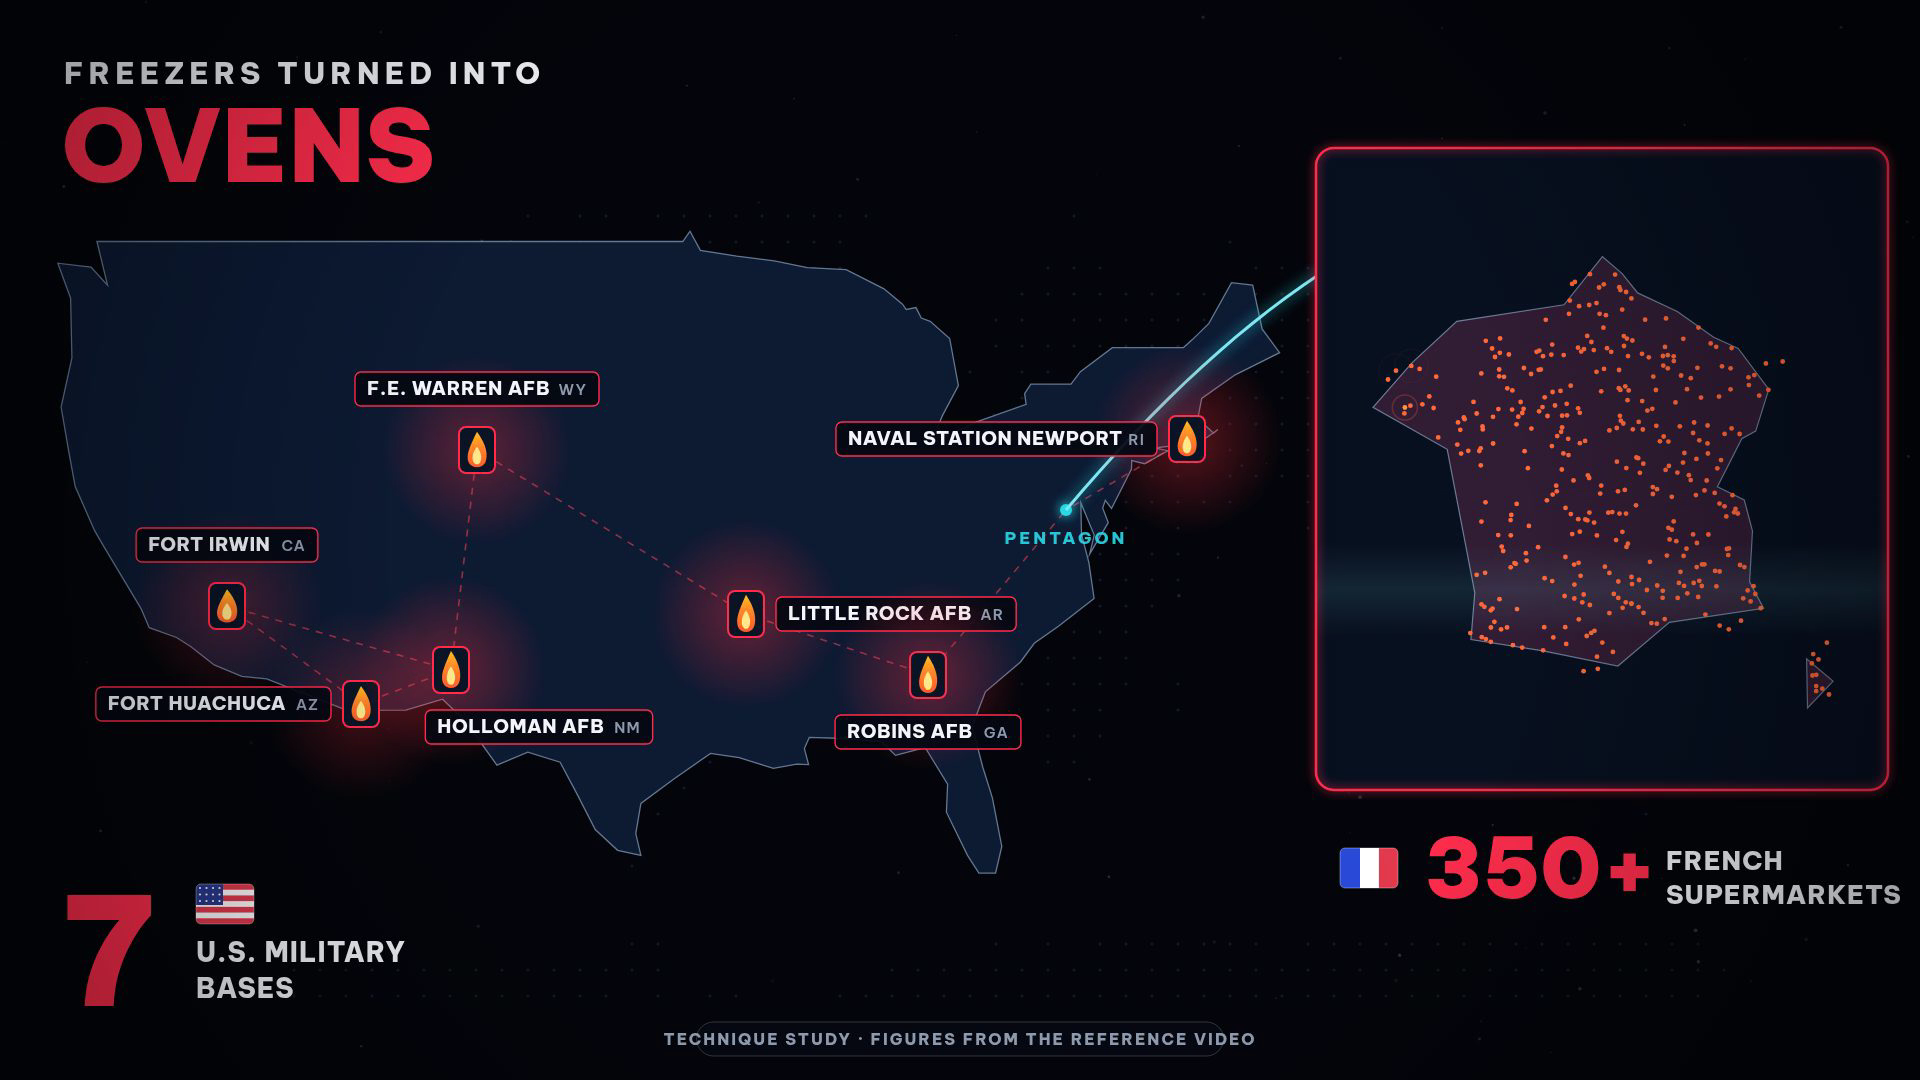
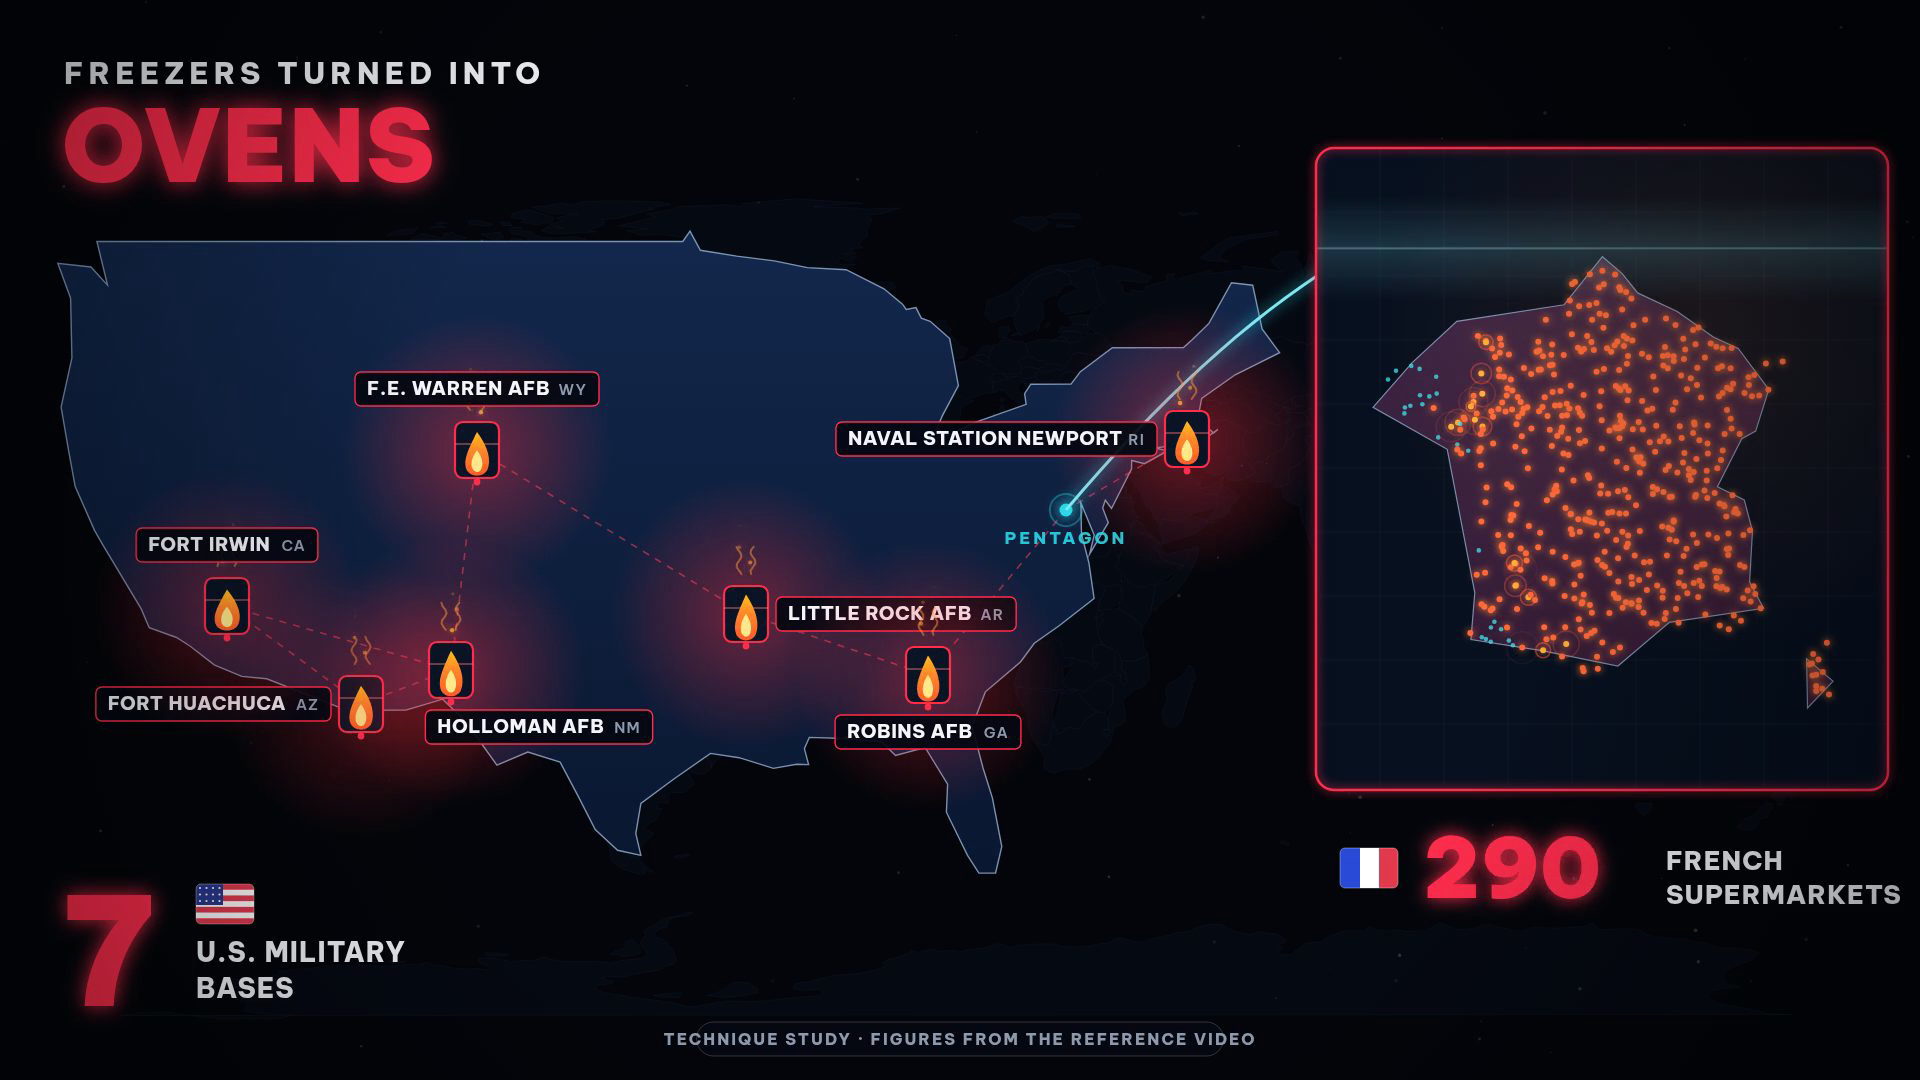
Liveliness pass: continuous motion on active markers, bloom, denser dot fields

diff --git a/SKILL.md b/SKILL.md
@@ -60,6 +60,8 @@
 
 - Give the main bars a soft glow in their own colour so the colour coding stays readable against the dark background.
 
+- Keep every active marker alive after its reveal with small continuous motion, such as rising ember particles, heat shimmer lines, a flickering flame glyph, pulsing glows and a sweeping scan band inside inset panels, and give the hero number and the title word a soft bloom in their own colour, because a frame where nothing moves between reveals reads as flat next to the references, as the user pointed out on 30 October 2026.
+
 - Keep the title fixed at the top and keep any counter fixed in one corner so the viewer always knows the claim and the progress.
 
 - Lay the canvas out on fixed zones for the header, the hero number, the chart, the subtitle line, the verdict row and the closing cards, and keep each element inside its own zone.
